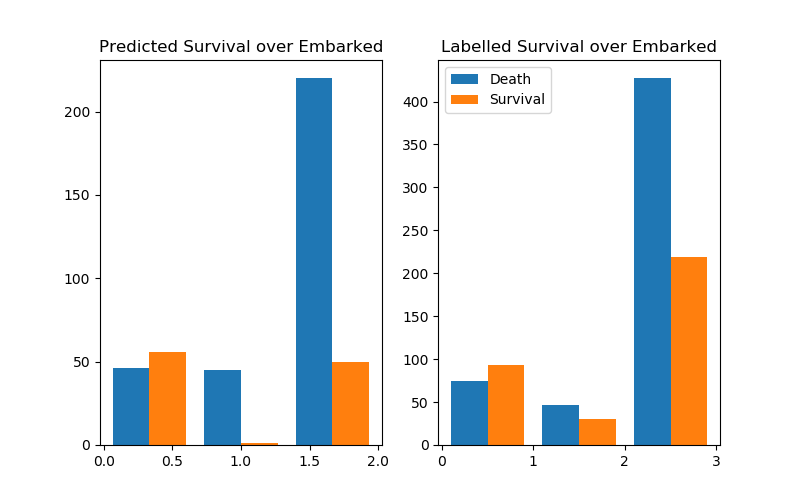
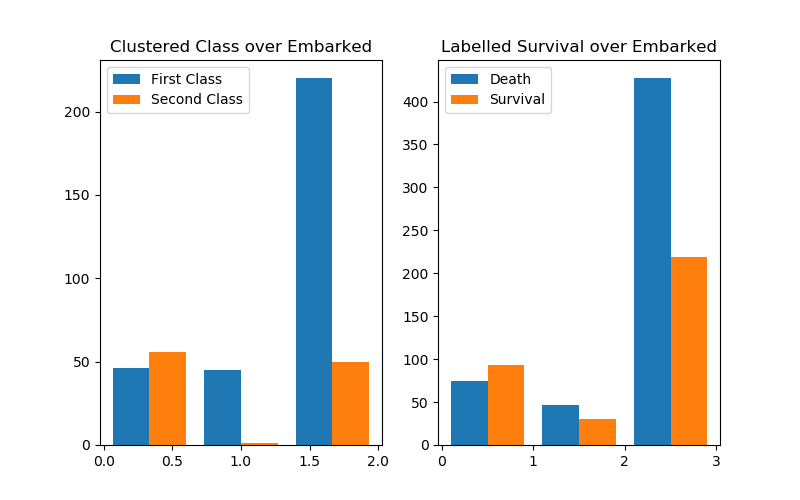
updates figures

Changed region(s): [[0.125, 0.06, 0.4688, 0.21]]

diff --git a/assignment3/solution.py b/assignment3/solution.py
@@ -104,7 +104,7 @@ def cluster_gmm():
 
     return cluster.predict(test_data)
 
-def plot_classificaton_result(test_label,classifier=''): 
+def plot_classificaton_result(test_label,classifier='',cls=True): 
     pred = []
     labelled = []
     pred.append([])
@@ -130,13 +130,18 @@ def plot_classificaton_result(test_label,classifier=''):
         fig,axes = plt.subplots(ncols=2)
         fig.set_size_inches(8,5)
         ax0,ax1 = axes.flatten()
-        ax0.hist([pred[0][i],pred[1][i]],bins=bin_num[i],label=['Death','Survival'])
-        ax0.set_title('Predicted Survival over %s'%attr_name[i])
+        if cls:
+            ax0.hist([pred[0][i],pred[1][i]],bins=bin_num[i],label=['Death','Survival'])
+            ax0.set_title('Predicted Survival over %s'%attr_name[i])
+        else:
+            ax0.hist([pred[0][i],pred[1][i]],bins=bin_num[i],label=['First Class','Second Class'])
+            ax0.set_title('Clustered Class over %s'%attr_name[i])
+            ax0.legend()
         
+
         ax1.hist([labelled[0][i],labelled[1][i]],bins=bin_num[i],label=['Death','Survival'])
         ax1.set_title('Labelled Survival over %s'%attr_name[i])
-        
-        plt.legend()
+        ax1.legend()
 
 
         # plt.show()
@@ -224,14 +229,14 @@ def main():
     # plot_classificaton_result(label_gnb,'gnb')
     # plot_classificaton_result(label_svm,'svm')
 
-    # plot_classificaton_result(label_gmm,'gmm')
-    plot_classificaton_result(label_kmeans,'kmeans')
+    plot_classificaton_result(label_gmm,'gmm',False)
+    plot_classificaton_result(label_kmeans,'kmeans',False)
 
     pca = PCA(2)
     low_d_test = pca.fit_transform(test_data)
     
     # plot_pca_result(low_d_test,label_gmm,'GMM')
-    plot_pca_result(low_d_test,label_kmeans,'Kmeans')
+    # plot_pca_result(low_d_test,label_kmeans,'Kmeans')
     # plot_pca_result(low_d_test,label_svm,'SVM',legends=['Death','Survival'])
     # plot_pca_result(low_d_test,label_gnb,'GNB',legends=['Death','Survival'])
 
